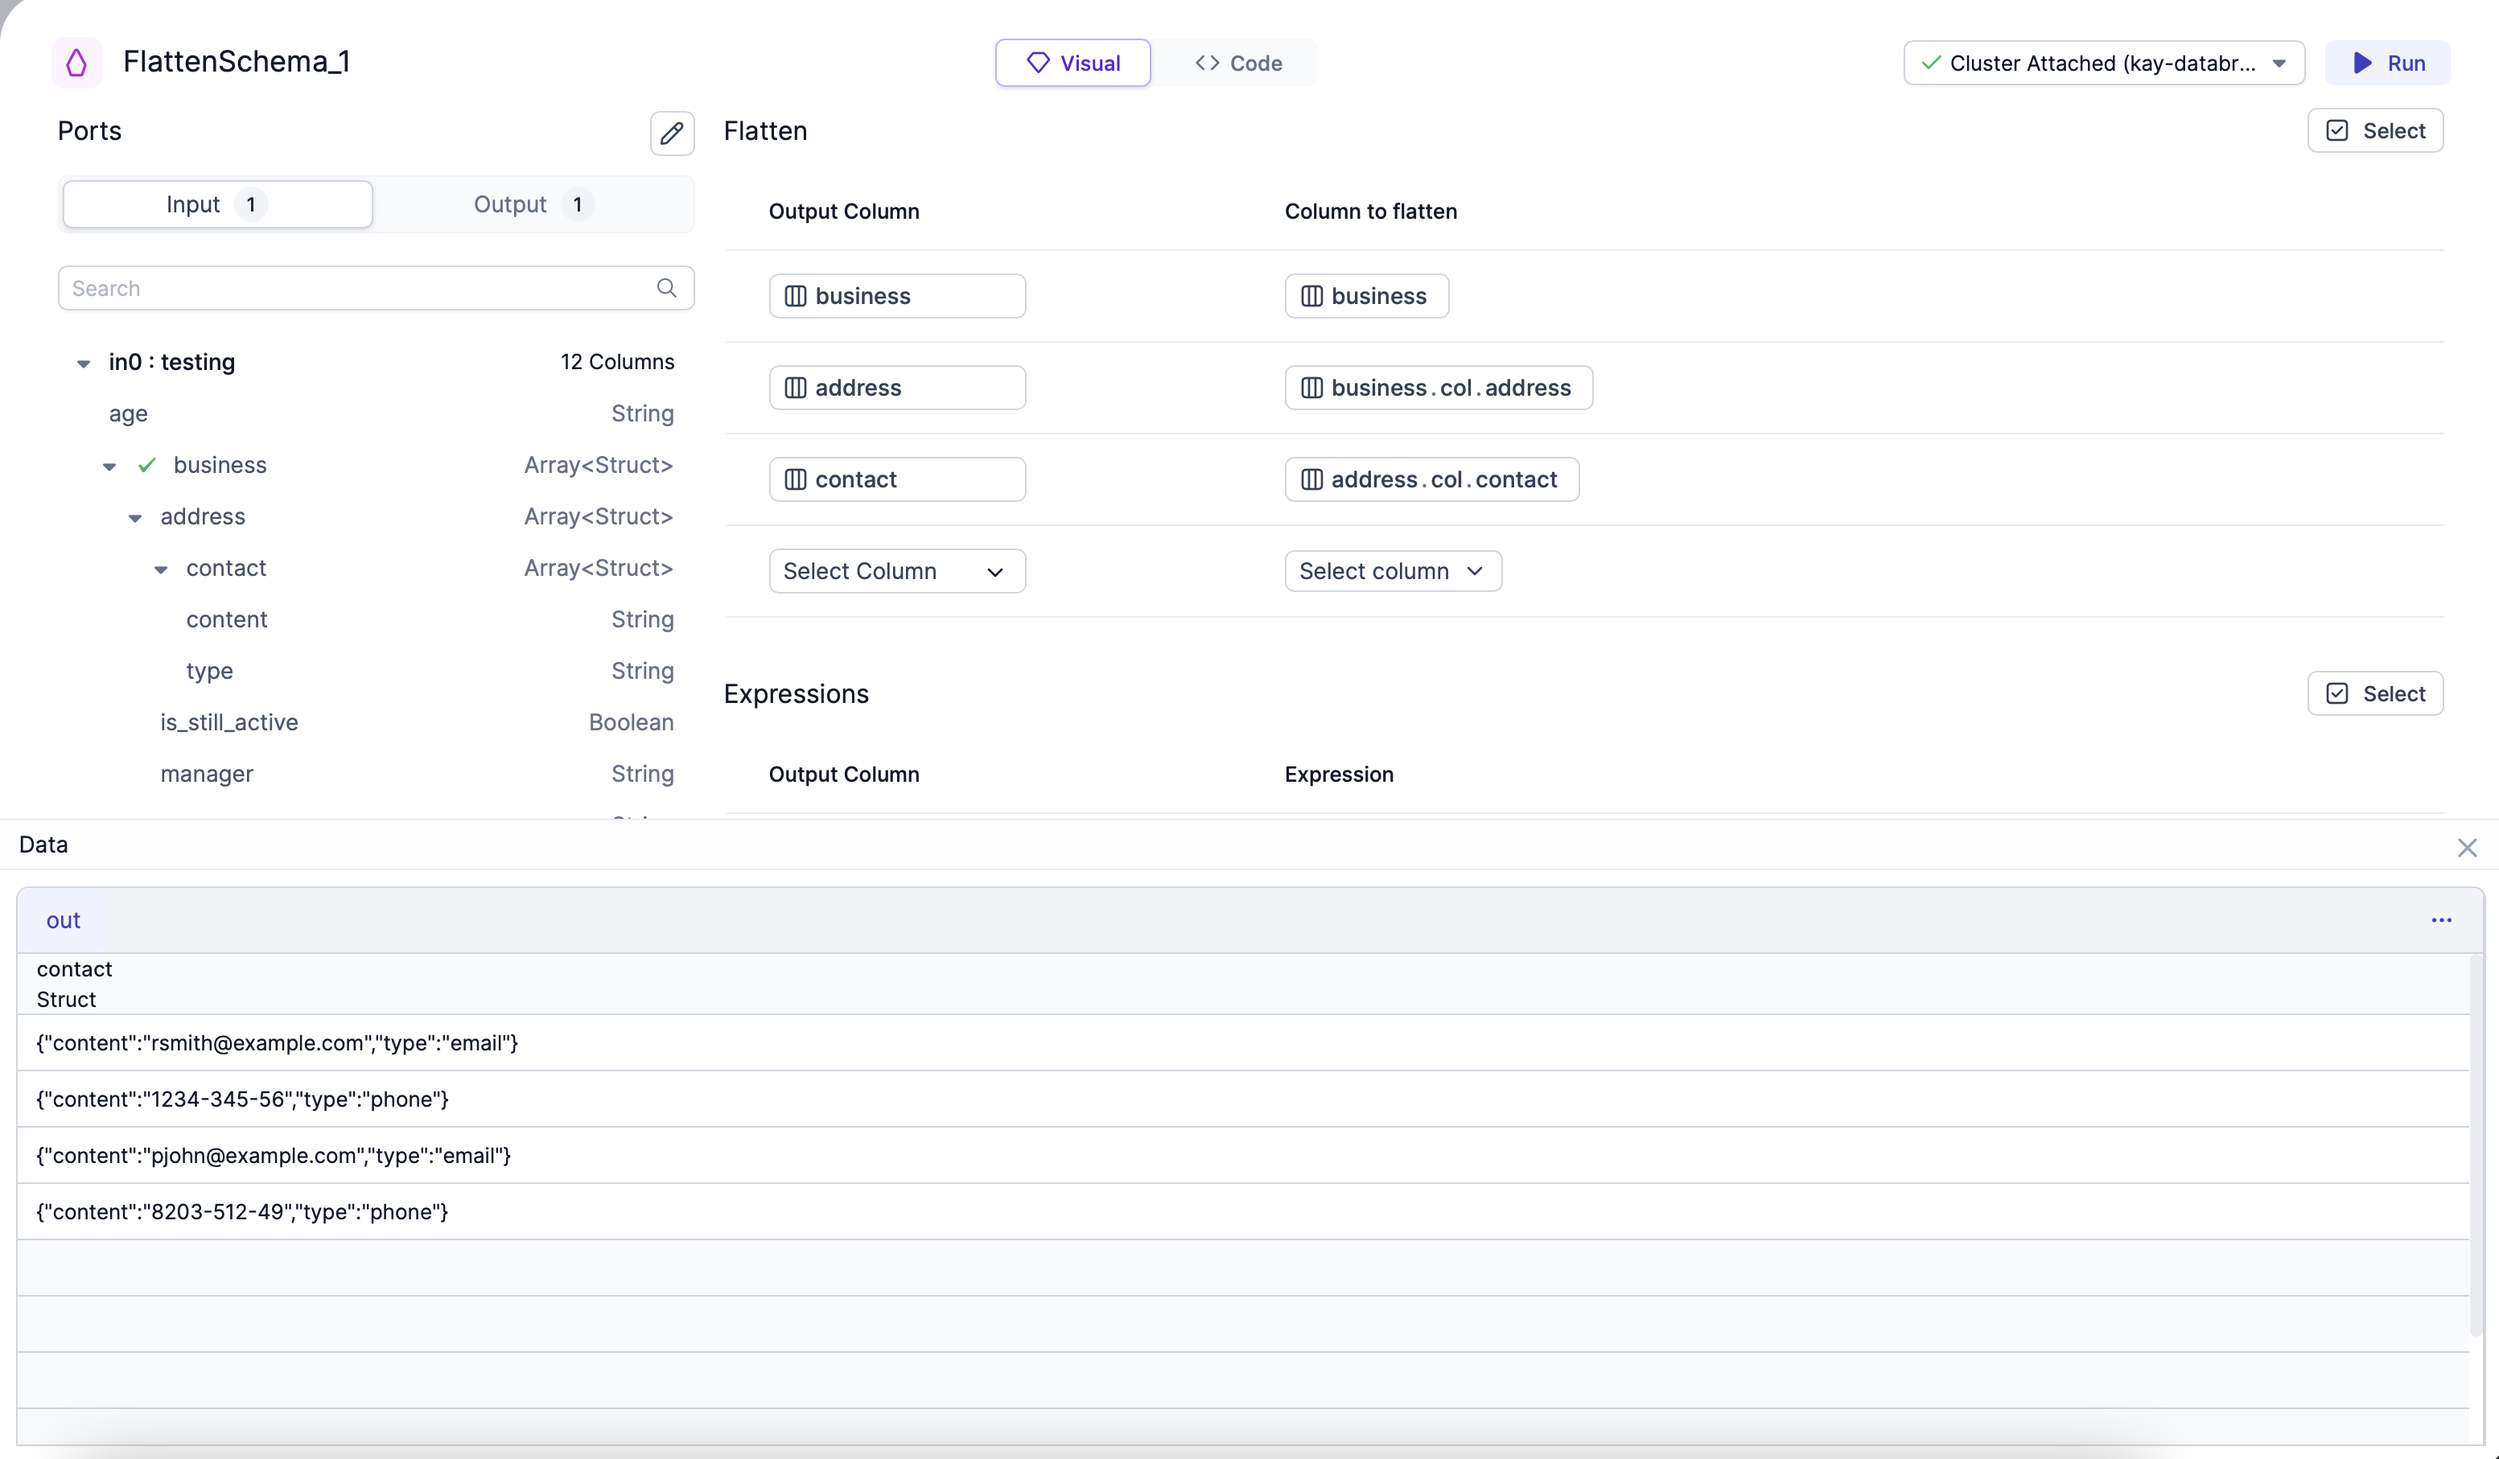
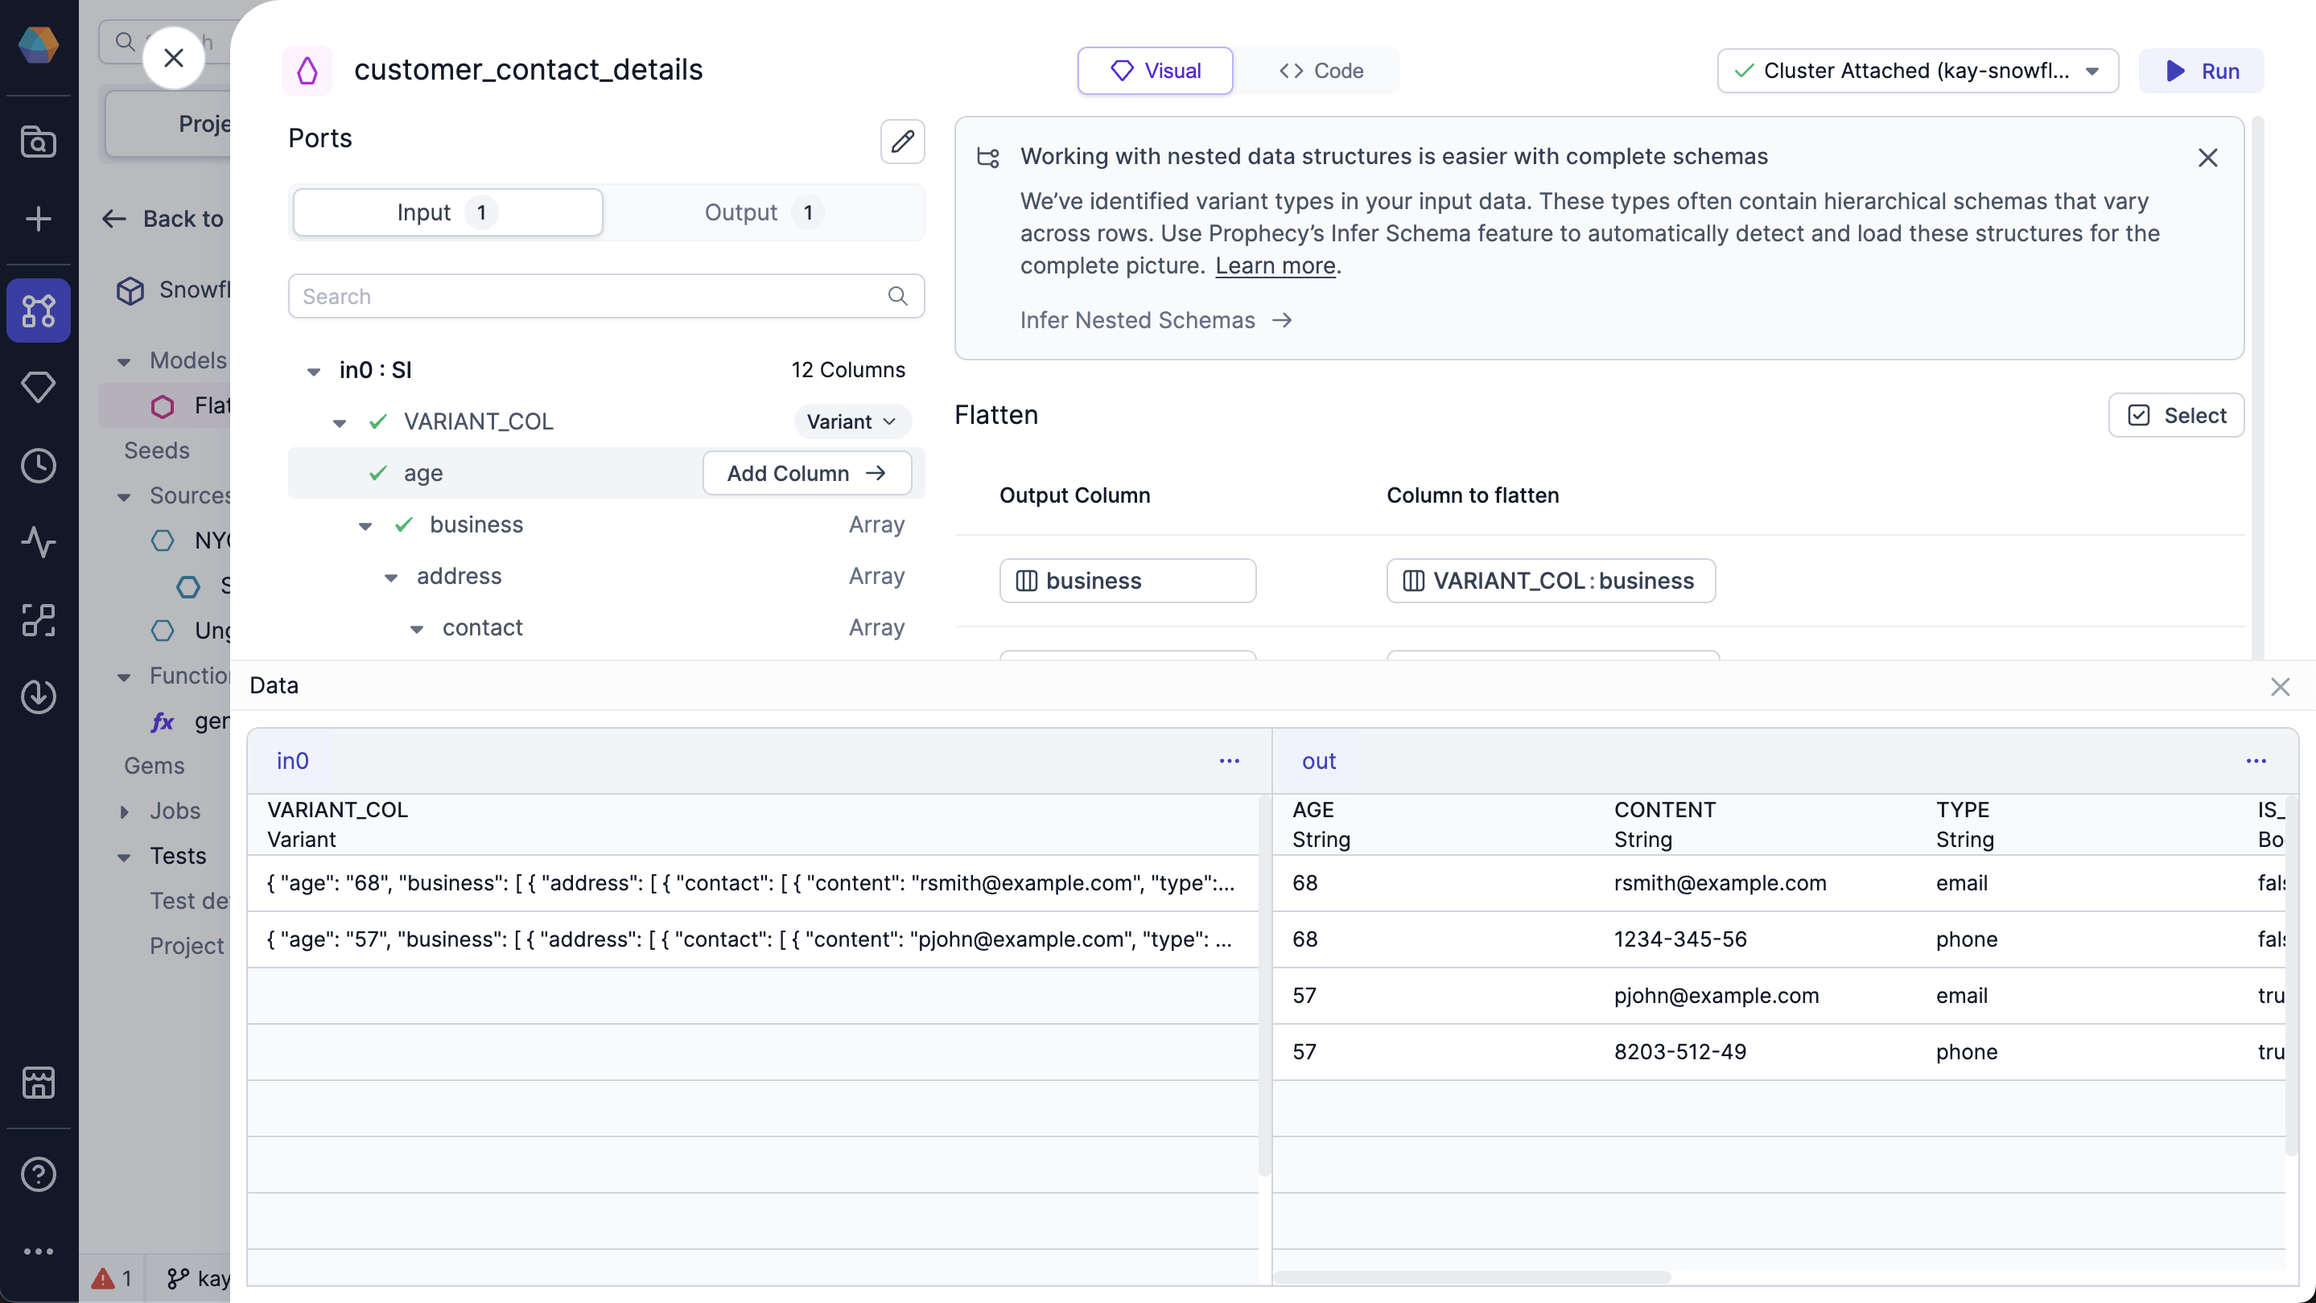
team suggestion on varient schema

diff --git a/sidebars.js b/sidebars.js
@@ -220,7 +220,7 @@ const sidebars = {
               items: [
                 "analysts/development/gems/visual-expression-builder/visual-expression-builder-reference",
                 "analysts/development/gems/visual-expression-builder/use-the-expression-builder",
-                "analysts/development/gems/visual-expression-builder/variant-schema",
+                "analysts/development/gems/visual-expression-builder/variant-data-type",
               ],
             },
           ],

diff --git a/docs/analysts/development/gems/visual-expression-builder/variant-schema.md b/docs/analysts/development/gems/visual-expression-builder/variant-schema.md
@@ -1,86 +1,93 @@
 ---
-title: Variant schema
-id: variant-schema
+title: Variant Data Type
+id: variant-data-type
 slug: /analysts/variant-schema
-description: About variant schema
+description: About variant data types and how to update their schema
 tags:
   - concept
   - variant
   - sql
 ---
 
-You can use Prophecy to convert your variant schemas into flat, structured formats to make them easier to understand and use for analytics. This is available for when you want to determine the variant schema of your Snowflake array or object.
+A variant data type is an array of values with more than one data type treated like a large object. You can use Prophecy to convert your variant data type into flat, structured formats to make them easier to understand and use for analytics. This helps you determine the data types of each value in your Snowflake array or object.
 
-Using the variant schema functionality, you can do the following:
+With a variant data type, you can:
 
 - Infer the variant schema
 - Configure the parsing limit for inferring the column structure
 - Use a nested column inside of the Visual Expression Builder
 
-## Inferring the variant schema
+## Inferring the variant data types
 
-Variant schemas are not stored within the table definition and can vary for each row, making them difficult to infer and use. Fortunately, you don't have to infer the schema yourself. You can use the column selector inside of your gems to automatically infer the variant schema, explore the multi-type variant structure, and later select a nested column to use in your transformations.
+Prophecy does not store variant data types within the table definition. Each row can vary in data types, which makes them difficult to infer and use. Fortunately, you don't have to infer the schema yourself. You can use the column selector inside of your gems to automatically infer the variant data type, explore the multi-type variant structure, and later select a nested column to use in your transformations.
 
-To automatically infer the variant schema, start by opening a gem that uses a variant column input.
+To automatically infer the variant data type:
 
-- Select the variant column, and click **Infer Schema**.
+1. Open a gem that uses a variant column input, such as the [FlattenSchema gem](/analysts/flatten-schema).
 
-Prophecy will automatically detect and identify the variant types in your input data.
+1. Click the **Variant** dropdown, and click **Infer Schema**.
 
-![Schema and column selector](img/variant-infer-schema.png)
+   Prophecy automatically detects and identifies the variant data types in your input data.
 
-:::note
+   ![Schema and column selector](img/variant-infer-schema.png)
 
-The inferred schema is cached so that you can use it again in the future whenever you reopen the model, gem, or another gem connected to the same input port. Check the bottom of the column selector to see the last time the variant schema was inferred.
+   :::note
 
-To refresh the schema, simply click **Infer Schema** again.
+   Prophecy caches the inferred schema so you can use it again in the future whenever you reopen the model, gem, or another gem connected to the same input port.
 
-:::
+   To see the last time your variant data type was inferred, check the box at the bottom of the column selector.
 
-### Editing the variant schema
+   To refresh the schema, click **Infer Schema** again.
 
-After you infer the schema, you can click **Edit Schema** to view the variant schema and make edits to it. Use the Type dropdowns to manually choose the data type of each nested schema.
+   :::
 
-![Edit schema view](img/variant-edit-schema.png)
+### Editing the variant data type schema
 
-Editing the variant schema is useful in cases where not all of the schema cases were covered while sampling the records.
+If Prophecy did not cover your schema case while sampling the records, you can make edits yourself by:
+
+1. Click the **Variant** dropdown, and click **Edit Schema**.
+1. Use the data type dropdowns to manually choose the data type of each nested schema.
+
+   ![Edit schema view](img/variant-edit-schema.png)
 
 ## Variant sampling setting
 
-When Prophecy infers the variant schema, it samples the records to identify all potential iterations of keys and values within the schema.
+When Prophecy infers the variant data type, it samples the records to identify all potential iterations of keys and values within the schema.
 
-The default number of records that Prophecy parses to understand the nested data schema is 100. You can update this limit under the Development Settings, which you can navigate to by clicking **... > Development Settings**.
+The default number of records that Prophecy parses to understand the nested data schema is 100.
 
-![Variant sampling setting](img/variant-sampling-setting.png)
+To update this limit:
 
-We recommend that you increase the limit for small structures, or decrease it for larger ones.
+1. Click on `...` at the top of the page.
+1. Click **Development Settings**.
+1. Put in the number of records you want Prophecy to parse to understand the nested data schema.
+
+   We recommend that you increase the limit for small structures, or decrease it for larger ones.
+
+   ![Variant sampling setting](img/variant-sampling-setting.png)
 
 :::note
-
 This setting does not rely on the ratio of the data since that would require a complete count of the data records.
-
 :::
 
 ## Adding a nested column
 
-With in the column selector, you can add a nested column by clicking **Add Column** next to the input field name.
+In the column selector, you can add a nested column by clicking **Add Column** when you hover over the input field name.
 
 ![Add column](img/variant-add-column.png)
 
-When adding a column nested within a variant, the output column name, expression, and data type are automatically generated according to the following rules:
+When you add a column nested within a variant data type, Prophecy automatically generates the following fields according to the following rules:
 
-- Column name: The column name matches the input field name, and is prefixed with the parent field path. If there's a conflict, Prophecy appends numbers starting with `_0` until it becomes unique.
-
-  For example, if the column name `customers_name` already exists, the new field might be named `customers_name_0`.
-
-- Expression: The expression represents the full path to the selected field, and uses existing flattened subpaths.
-
-- Data type: The data type is automatically `CAST` to the closest inferred type.
+| Field       | Rule                                                                                                                                                                                                                                                                                                              |
+| ----------- | ----------------------------------------------------------------------------------------------------------------------------------------------------------------------------------------------------------------------------------------------------------------------------------------------------------------- |
+| Column name | The column name matches the input field name, and is prefixed with the parent field path. If there's a conflict, Prophecy appends numbers starting with `_0` until it becomes unique. <br/>For example, if the column name `customers_name` already exists, Prophecy might name the new field `customers_name_0`. |
+| Expression  | The expression represents the full path to the selected field, and uses existing flattened subpaths.                                                                                                                                                                                                              |
+| Data type   | The data type is automatically `CAST` to the closest inferred type.                                                                                                                                                                                                                                               |
 
 ### Default casting
 
 Prophecy automatically adds a `CAST` to any column you add from a nested type. By default, the column is cast using the standard `CAST(x AS y)` syntax.
 
-In some cases, a path within a variant may hold different value types across rows. For instance, consider a dataset where each row’s value key contains different data types, such as integer, object, and boolean.
+In some cases, a path within a variant data type may hold different value types across rows. For instance, consider a dataset where each row’s value key contains different data types, such as integer, object, and boolean.
 
-Prophecy supports this scenario by presenting each detected data type for a given key, array, or object as a separate item in the column selector. When you add one of those columns to the expression, we use explicit casting, which may error out if the cast is not possible. You can change this behavior by using `TRY_CAST`, which returns `null` if the cast is not possible.
+Prophecy supports this scenario by presenting each detected data type for a given key, array, or object as a separate item in the column selector. When you add one of those columns to the expression, Prophecy uses explicit casting, which may error out if the cast is not possible. You can change this behavior by using `TRY_CAST`, which returns `null` if the cast is not possible.

diff --git a/docs/analysts/development/gems/prepare/flatten-schema.md b/docs/analysts/development/gems/prepare/flatten-schema.md
@@ -1,5 +1,5 @@
 ---
-title: Flatten schema
+title: FlattenSchema
 id: flatten-schema
 slug: /analysts/flatten-schema
 description: Flatten nested columns
@@ -11,7 +11,15 @@ tags:
 
 <span class="badge">SQL</span><br/><br/>
 
-You can use the FlattenSchema gem on sources that have nested columns that you'd like to extract into a flat schema.
+When you load the data with nested columns into Prophecy, they become a [variant data type](/analysts/variant-schema). This means that your data is an array of values with more than one data type. You can use the FlattenSchema gem to automatically detect the nested data types without doing this manually yourself.
+
+## Parameters
+
+| Parameter   | Description                                                    | Required |
+| ----------- | -------------------------------------------------------------- | -------- |
+| Model       | Input Source on which the filter condition will be applied.    | True     |
+| Flatten     | Array **column to flatten** for each **Output Column**.        | True     |
+| Expressions | **Expression** to compute each field in the **Output Column**. | True     |
 
 ## Example
 
@@ -38,18 +46,15 @@ import TabItem from '@theme/TabItem';
 ```
 ````
 
-When you load the data into Prophecy, the nested column will have a [variant schema](/analysts/variant-schema) data type.
-
 ### Expressions
 
 The FlattenSchema gem allows you to extract nested fields into a flattened schema.
 
-For example, to extract the `contact` field:
+For example, to extract all the nested fields:
 
-1. In the **Input** tab, navigate to the `contact` field.
-1. Hover over the `contact` field and click the **Add Column** button.
+1. In the **Input** tab, hover over the `in0` field and click the **Add 12 Columns ->** button.
 
-   Now, the `contact` field is in the `Expressions` section.
+   Now, all the nested fields are in the `Expressions` section.
 
    :::tip
    You can click to add all columns, which would make all nested lowest-level values of an object visible as columns.
@@ -67,7 +72,7 @@ After you run the FlattenSchema gem, click the **Data** button to see your schem
 
 ![Output interim](./img/flatten_output_interim.png)
 
-The FlattenSchema gem flattened the `contact` field, which gives you individual rows for each `content` type.
+The FlattenSchema gem flattened all the nested fields, which gives you individual rows for each one.
 
 ## Snowflake advanced settings
 
@@ -77,8 +82,6 @@ To use the advanced settings:
 
 1. Hover over the column you want to flatten.
 1. Click the dropdown arrow.
-
-   ![Advanced settings](./img/flatten_advanced_settings.png)
 
    You can customize the following options:
 
